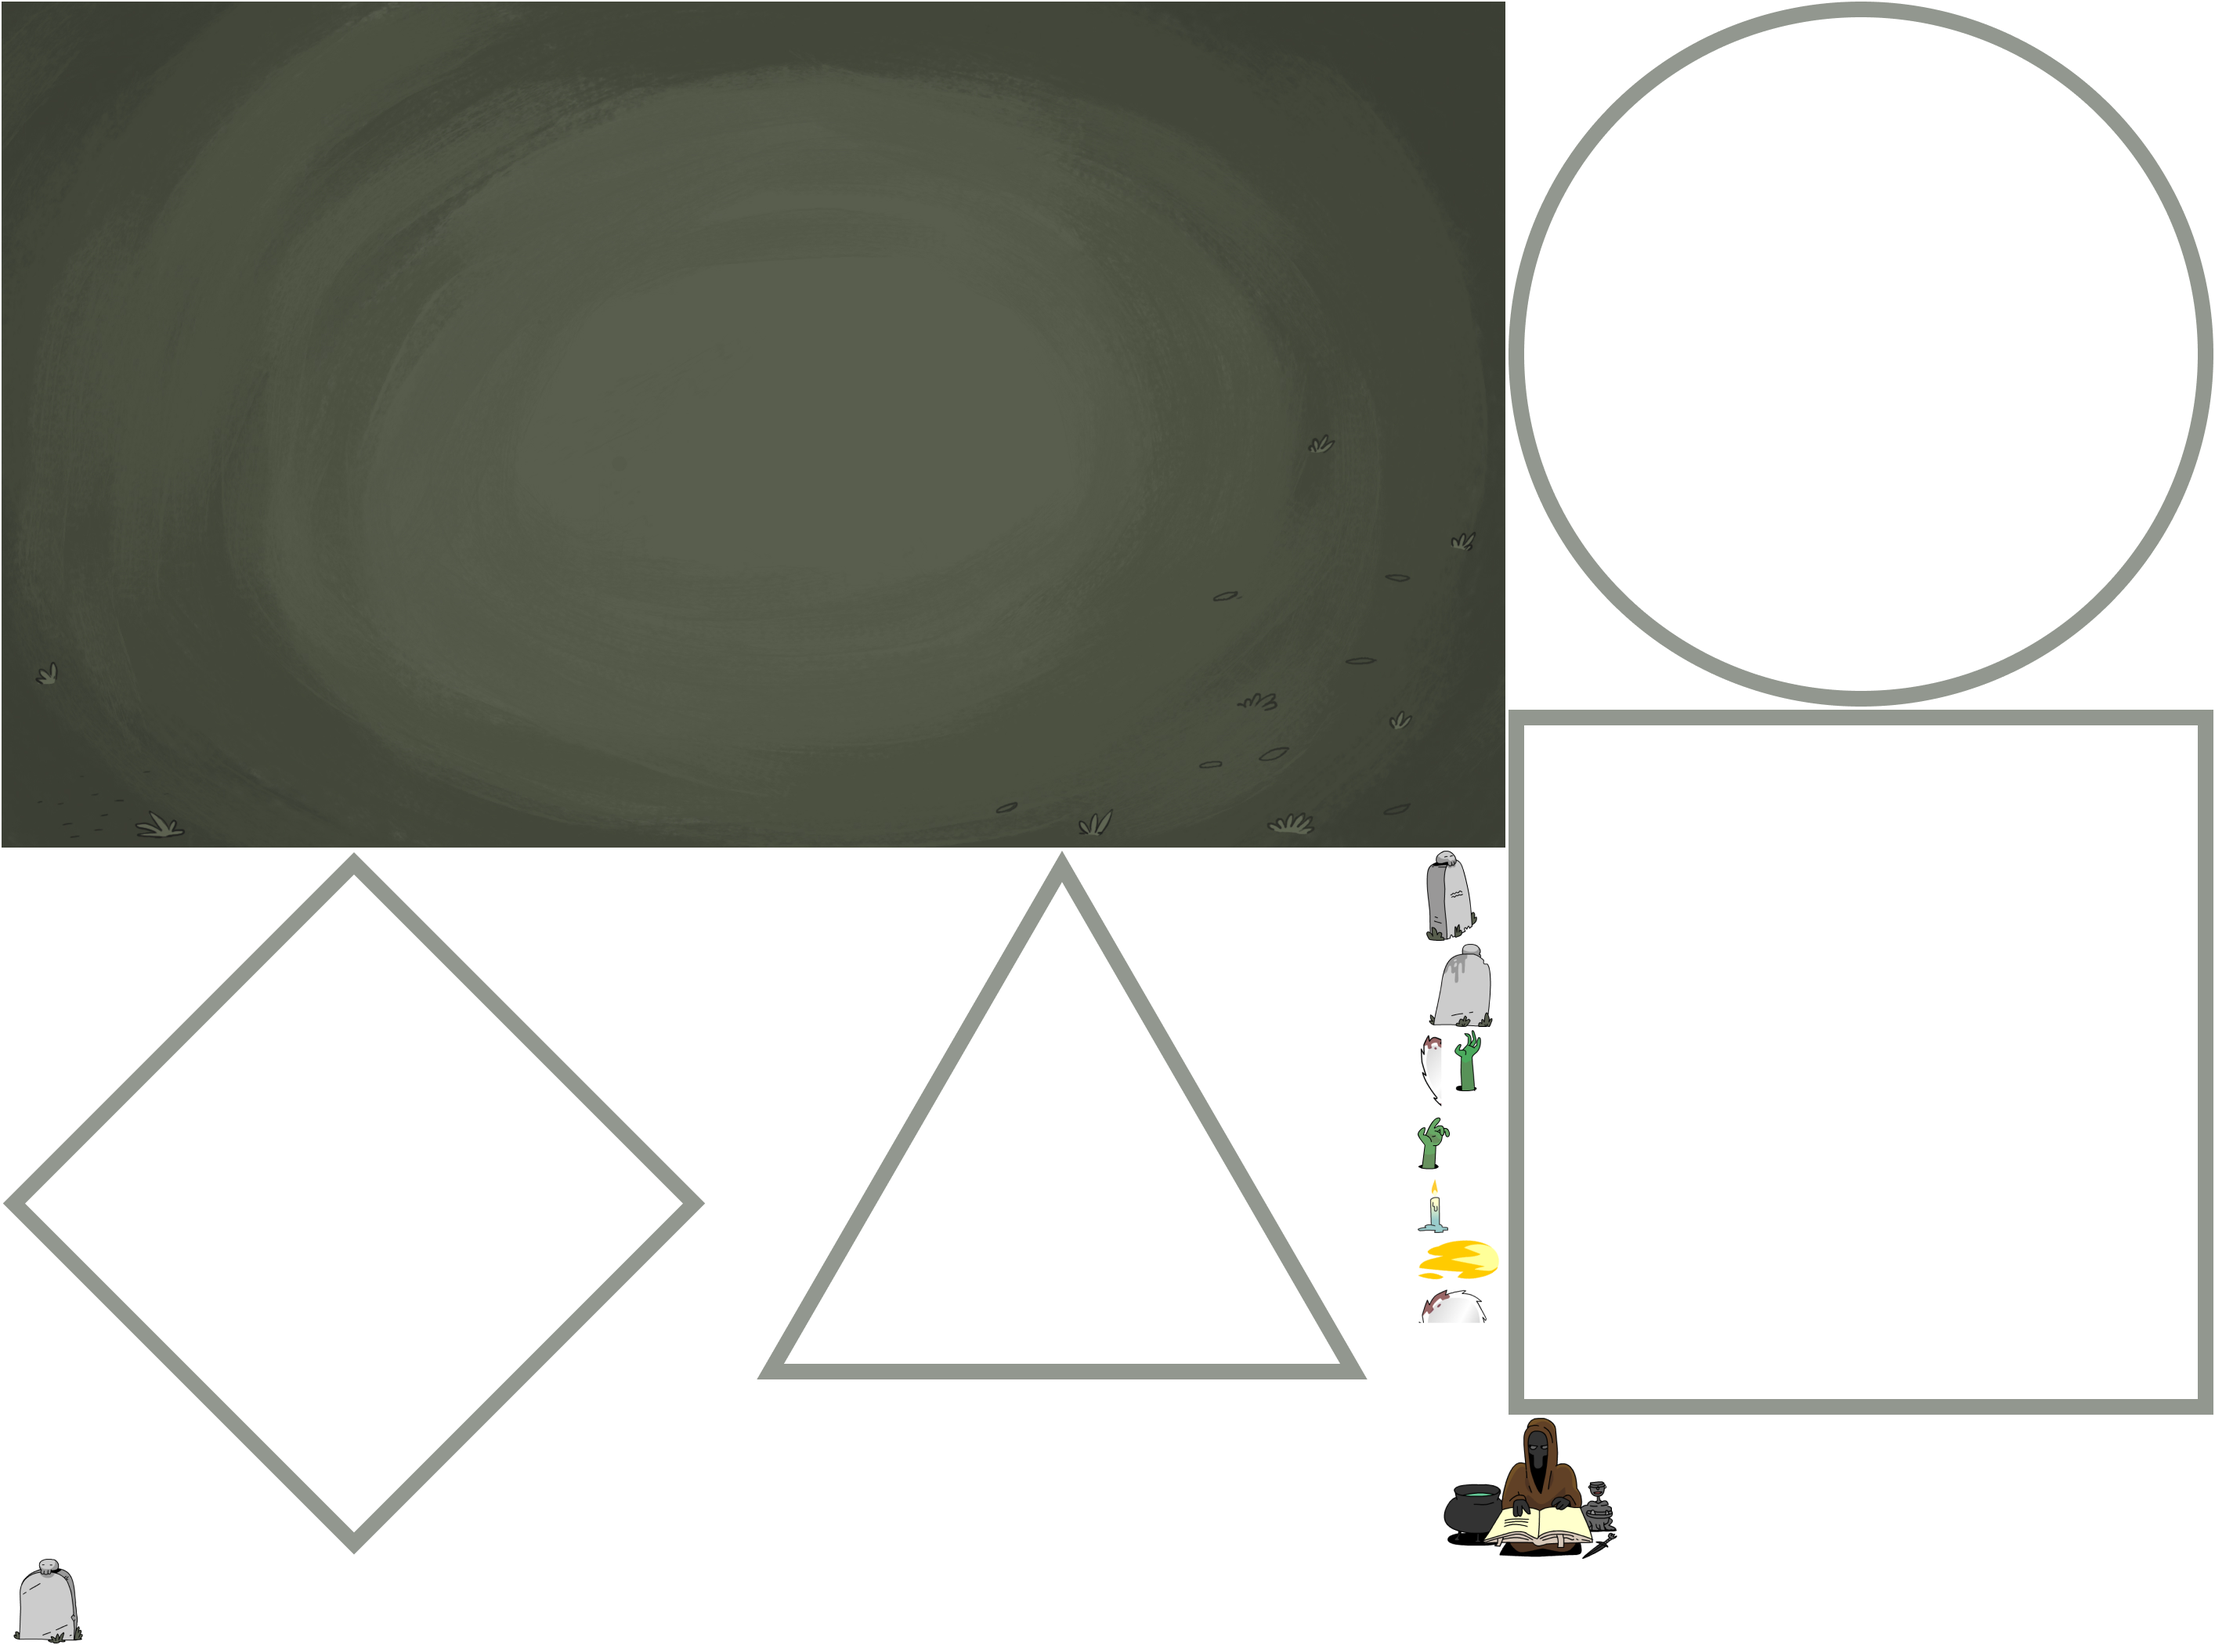
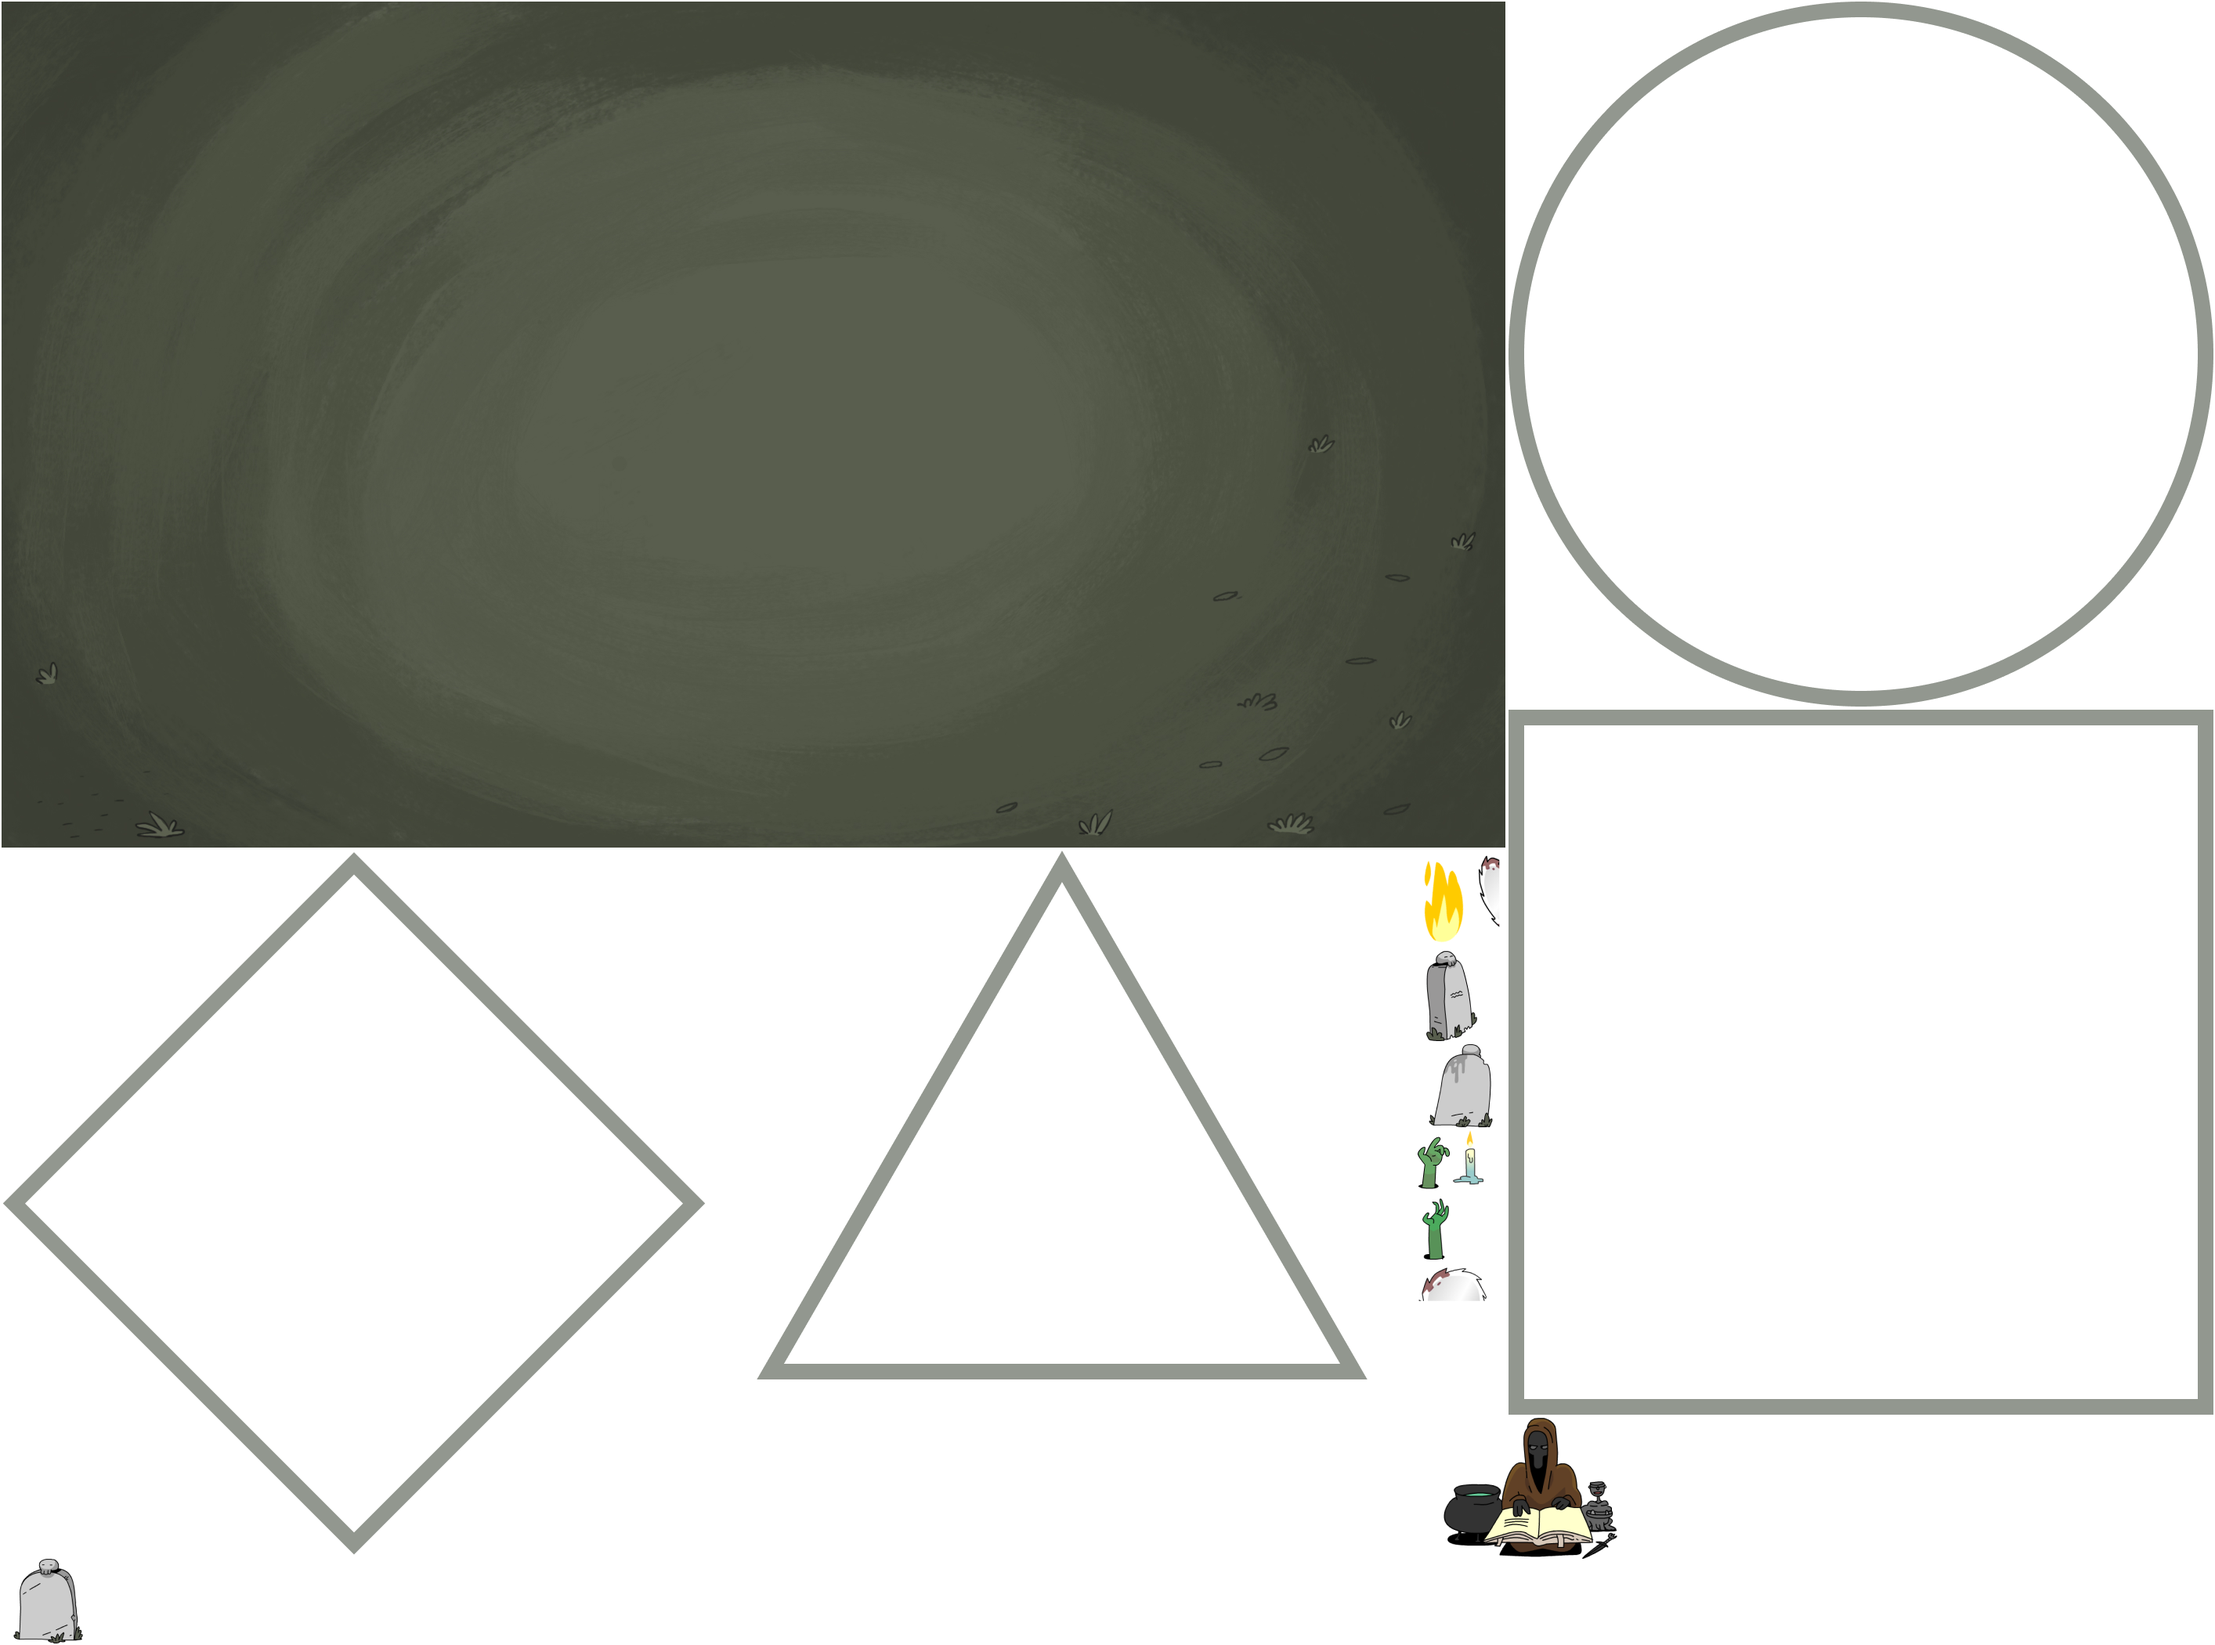
mvp

Changed region(s): [[0.6223, 0.5262, 0.6846, 0.8048]]

diff --git a/src/game/components/objects/fireball.ts b/src/game/components/objects/fireball.ts
@@ -1,12 +1,25 @@
-import { Actor, Sprite, Vector } from 'excalibur';
+import type { ActorArgs } from 'excalibur';
+import { Actor, Sprite, toRadians, vec, Vector } from 'excalibur';
 import res from '@/res';
 import { Assets } from '@/game/resources/assets';
 import { TAGS } from '@/enums';
+import type Construction from '@/game/components/construction';
+import game from '@/game/game';
 
 export default class Fireball extends Actor {
+	private starPos!: Vector;
+	private speed = 8000;
+
+	constructor(props: ActorArgs, private construction: Construction) {
+		super(props);
+	}
+
 	onInitialize() {
+		this.starPos = this.pos.clone();
 		this.addTag(TAGS.Z_AXIS_SORT);
+
 		this.initGraphics();
+		this.startMoving();
 	}
 
 	private initGraphics() {
@@ -15,5 +28,15 @@ export default class Fireball extends Actor {
 		this.graphics.use(sprite, {
 			anchor: sprite.origin || Vector.Zero,
 		});
+	}
+
+	private startMoving() {
+		const offset = this.construction.pos.distance(this.pos);
+		const startAngle = this.construction.pos.sub(this.pos).toAngle() + toRadians(90);
+		const abortController = new AbortController();
+
+		game.tween(progress => {
+			this.pos = this.construction.pos.add(vec(offset * Math.sin(startAngle + Math.PI * 2 * -progress), offset * Math.cos(startAngle + Math.PI * 2 * -progress)));
+		}, this.speed * this.construction.scale.x, abortController, true);
 	}
 }

diff --git a/src/game/game.ts b/src/game/game.ts
@@ -72,6 +72,7 @@ class Game extends Engine {
 		cb: (progress: number) => void,
 		duration: number,
 		abortController = new AbortController(),
+		endless = false,
 	) {
 		const signal = abortController.signal;
 
@@ -83,11 +84,12 @@ class Game extends Engine {
 				let elapsed = yield;
 				totalTime += elapsed;
 
-				const currentTime = clamp(totalTime / duration, 0, 1);
+				const tt = endless ? (totalTime % duration) / duration : totalTime / duration;
+				const currentTime = clamp(tt, 0, 1);
 
 				cb && cb(currentTime);
 
-				if (totalTime >= duration) return;
+				if (!endless && totalTime >= duration) return;
 			}
 		});
 	}

diff --git a/src/game/components/constructions/fireballs.ts b/src/game/components/constructions/fireballs.ts
@@ -9,15 +9,14 @@ export default class Fireballs extends Construction {
 	formSprite = <Sprite>res.assets.getFrameSprite(Assets.FORMS__ELLIPSE);
 
 	protected addObjects() {
-		const length = 4;
+		const length = Math.floor(8 * this.scale.x);
 		let startAngle = toRadians(0);
 		const offset = 440;
 
 		for (let i = 0; i < length; i++) {
 			const fb = new Fireball({
 				pos: this.pos.add(vec(offset * Math.sin(startAngle), offset * Math.cos(startAngle))).scale(this.scale),
-				rotation: toRadians(180) - toRadians(90) * i,
-			});
+			}, this);
 
 			this.scene.add(fb);
 
